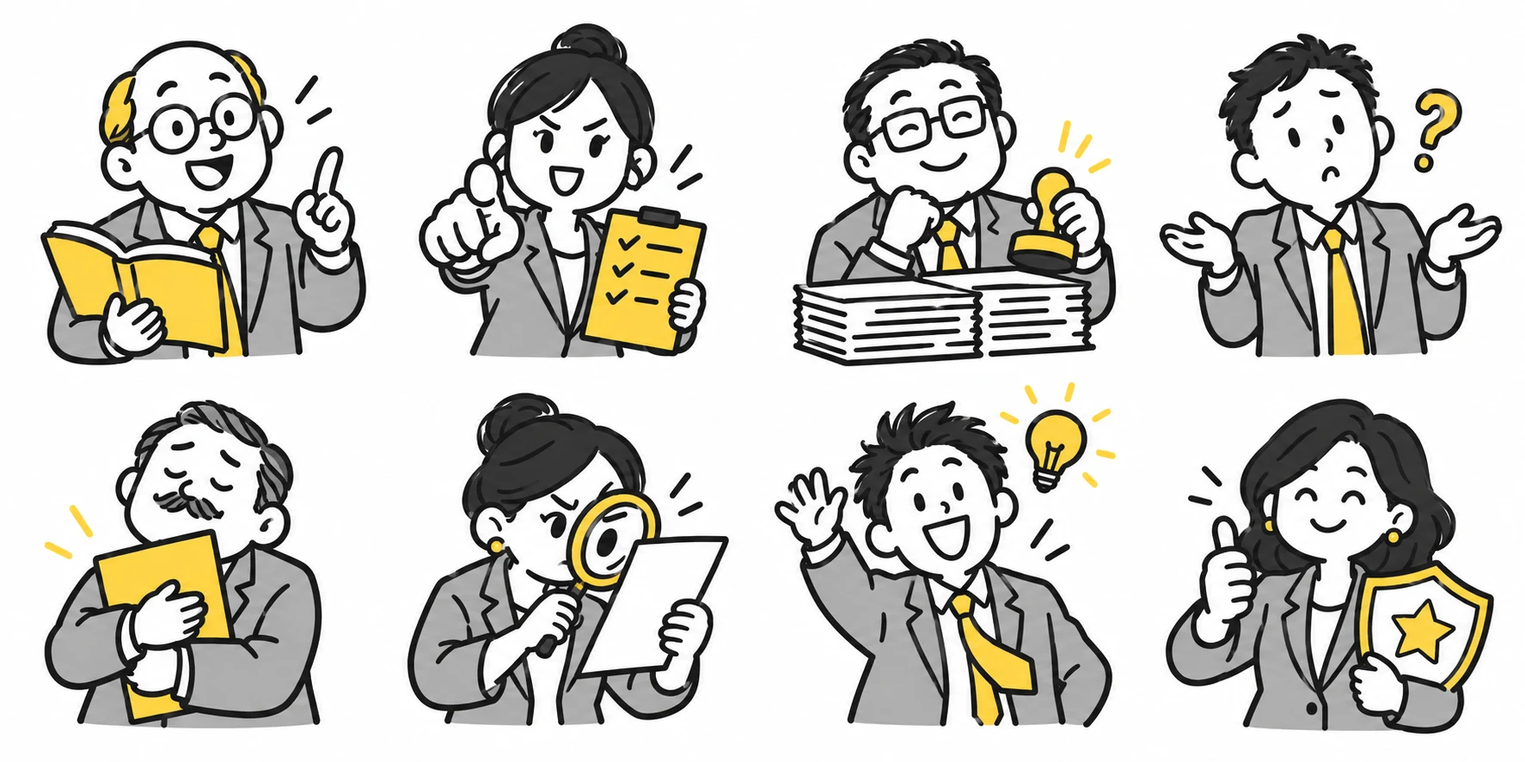
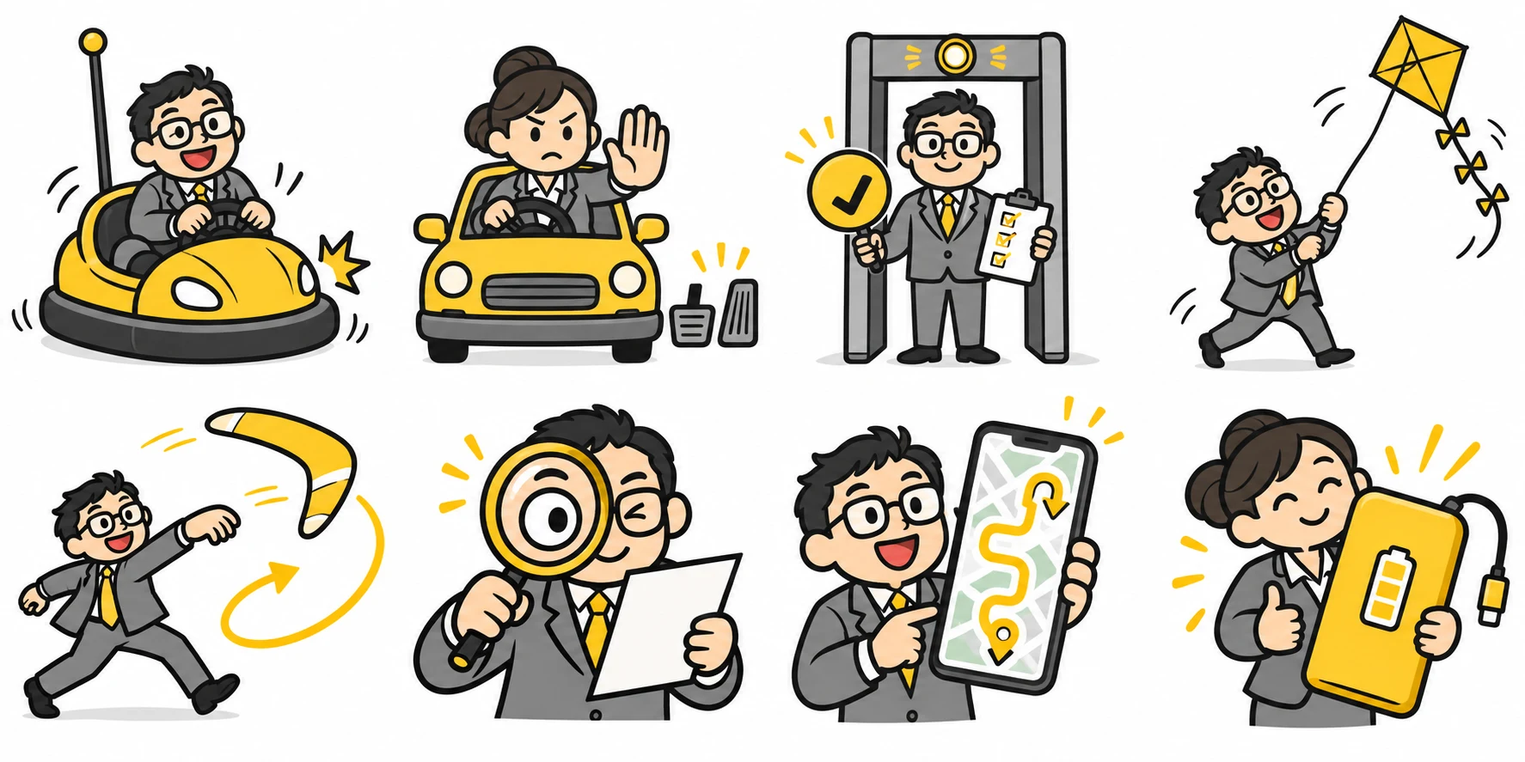
Rename leader profiles with everyday-object humor and matching illustrations

diff --git a/src/leader/main.js b/src/leader/main.js
@@ -1,5 +1,5 @@
 import './style.css';
-import { bossArt, paintBoss } from './illustrations.js';
+import { bossArt, paintBoss, mascotArt } from './illustrations.js';
 import {types,questions,evaluate} from './data.js';
 const app=document.querySelector('#app');
 let answers=[],step=0,view='home',selectedType=null;
@@ -14,15 +14,15 @@ const button=(label,action,cls='primary')=>`<button class="${cls}" data-action="
 function render(focus=false){
  const result=evaluate(answers);
  if (!document.querySelector('#main')) {
-   app.innerHTML=`<header><a href="#" data-action="home" class="brand"><span class="brand-mark">${bossArt("meeting")}</span> <span>领导使用说明书</span></a><span class="issue">打工人 · 观察手记</span></header><main id="main" tabindex="-1"></main><footer><span>每一种风格，都有相处的方法。</span><span>趣味行为观察 · 非 MBTI / 人格或管理能力评估</span></footer><div class="toast" role="status" aria-live="polite"></div>`;
+   app.innerHTML=`<header><a href="#" data-action="home" class="brand"><span class="brand-mark">${mascotArt()}</span> <span>领导使用说明书</span></a><span class="issue">打工人 · 观察手记</span></header><main id="main" tabindex="-1"></main><footer><span>每一种风格，都有相处的方法。</span><span>趣味行为观察 · 非 MBTI / 人格或管理能力评估</span></footer><div class="toast" role="status" aria-live="polite"></div>`;
  }
  const main = document.querySelector('#main');
  main.innerHTML = view==='home' ? home() : view==='quiz' ? quiz() : results(result);
  if(focus){main.focus({preventScroll:true});window.scrollTo({top:0,behavior:'instant'});}
 }
-function home(){return `<section class="hero doodle-home"><div class="hero-copy"><h1>快来认领<br>你的 <span class="highlight">Boss</span><em>！</em></h1><p class="home-subtitle">18 个职场瞬间，测出 TA 的隐藏画风。<br>顺便领走一份「相处攻略」。</p><div class="hero-actions">${button('看看我摊上了谁 ↗','start')}${savedAnswers.length?button('继续上次观察','resume','text-button'):''}</div><p class="home-meta">约 3 分钟 · 无需登录 · 答案仅存本标签页</p></div><div class="home-portrait" aria-hidden="true"><span class="sketch-orbit orbit-one">✦</span>${bossArt('meeting')}<span class="sketch-orbit orbit-two">?</span><span class="portrait-caption">Boss 已就位，等你来认领。</span></div></section>`;}
+function home(){return `<section class="hero doodle-home"><div class="hero-copy"><h1>快来认领<br>你的 <span class="highlight">Boss</span><em>！</em></h1><p class="home-subtitle">18 个职场瞬间，测出 TA 的隐藏画风。<br>顺便领走一份「相处攻略」。</p><div class="hero-actions">${button('看看我摊上了谁 ↗','start')}${savedAnswers.length?button('继续上次观察','resume','text-button'):''}</div><p class="home-meta">约 3 分钟 · 无需登录 · 答案仅存本标签页</p></div><div class="home-portrait" aria-hidden="true"><span class="sketch-orbit orbit-one">✦</span>${mascotArt()}<span class="sketch-orbit orbit-two">?</span><span class="portrait-caption">Boss 已就位，等你来认领。</span></div></section>`;}
 function quiz(){const q=questions[step];return `<section class="quiz"><div class="quiz-top"><span class="eyebrow">观察记录 / ${step<6?'日常沟通':step<12?'决策现场':'协作与反馈'}</span><span>${String(step+1).padStart(2,'0')} <span class="muted">/ 18</span></span></div><div class="progress" role="progressbar" aria-label="答题进度" aria-valuemin="0" aria-valuemax="18" aria-valuenow="${step+1}"><i style="width:${(step+1)/18*100}%"></i></div><p class="question-note">回想最近一个月，同一位直属领导的真实行为。</p><h1>${q.prompt}</h1><p class="muted">选择最常见的一种；没有遇到过也没关系。</p><div class="options">${[...q.options.map(o=>o.text),'没有遇到过 / 观察不足'].map((text,i)=>`<button class="option ${answers[step]===i?'selected':''}" data-answer="${i}" ${answers[step]===i?'aria-pressed="true"':'aria-pressed="false"'}><span>${i===4?'—':String.fromCharCode(65+i)}</span><b>${text}</b><span class="choice-indicator" aria-hidden="true">${answers[step]===i?"✓":""}</span></button>`).join('')}</div><div class="quiz-bottom">${step?button('← 上一题','back','text-button'):button('← 返回首页','home','text-button')}<button class="secondary next-question" data-action="next" ${Number.isInteger(answers[step])?'':'disabled'}>${step===17?'查看结果':'下一题 →'}</button></div><p class="swipe-hint" role="status">${Number.isInteger(answers[step])?'已选好，向左滑动进入'+(step===17?'结果':'下一题'):'点选答案后，向左滑动继续'} · 右滑返回</p></section>`;}
-function results(r){const t=selectedType?types.find(t=>t.id===selectedType):r.primary;return `<section class="results"><div class="result-heading"><p class="eyebrow">${selectedType?'风格图鉴 / 仅浏览':'YOUR LEADER MANUAL / 观察完成'}</p><h1>${t?'找到相处的频道。':'再多一点观察，少一点猜测。'}</h1><p class="muted">${selectedType?'浏览图鉴不会改变你的作答结果。':`已收集 ${r.known} 条有效观察。类型来自行为线索组合，并非人格诊断。`}</p></div>${t?`<article class="result-card"><div class="result-symbol">${bossArt(t.id)}</div><div><p class="eyebrow">${t.alias} · ${selectedType?'风格图鉴':`${r.primary.score} 条线索指向这一风格`}</p><h2>${t.name}</h2><blockquote>“${t.quote}”</blockquote>${!selectedType&&r.secondary?`<p class="mixed">混合倾向：${r.secondary.name} · ${r.secondary.score} 条线索</p>`:''}</div><span class="result-seal">观察<br>手记</span></article><div class="insight-grid"><article><p class="eyebrow">01 / 读懂偏好</p><h3>TA 可能在意什么</h3><p>${t.strength}</p></article><article><p class="eyebrow">02 / 找到卡点</p><h3>你们容易卡在哪里</h3><p>${t.friction}</p></article></div><section class="guide"><p class="eyebrow">03 / 下次试试看</p><h2>把理解，变成三个小动作。</h2>${t.tips.map((s,i)=>`<div class="tip"><span>0${i+1}</span><p>${s}</p></div>`).join('')}<div class="script"><span>一句可以直接说的话</span><p>“${t.script}”</p>${button('复制这句话 ↗','copy','text-button')}</div></section>${!selectedType?`<details><summary>看看支持这一结果的作答线索</summary>${answers.map((a,i)=>questions[i]?.options[a]?.scores.includes(t.id)?`<div class="evidence"><b>${questions[i].prompt}</b><p>${questions[i].options[a].text}</p></div>`:'').join('')}</details>`:''}`:`<div class="empty-result"><span>⌁</span><h2>目前还不足以判断主要风格</h2><p>至少需要 8 条有效观察，且同一种风格有 3 条线索支持。<br>可以回看答案，或在积累更多真实经历后再来观察。</p></div>`}<div class="result-actions">${t?button('下载风格分享卡 ↓','download'):''}${!selectedType?button('回看并修改答案','review','secondary'):button('返回我的观察','own','secondary')}${button('重新观察','restart','text-button')}${button('清除本次记录','clear','text-button')}</div><aside class="boundary"><b>有些问题，不应只靠你调整沟通。</b><p>如果遇到持续羞辱、威胁、歧视或报复，请考虑保留记录，并向可信赖的人或合适的支持渠道求助。沟通技巧不能保证解决这些问题。</p></aside><p class="disclaimer">本测试为原创职场趣味观察，分类及权重未经心理测量验证。不用于人员评价或职业决策，不对应 MBTI。结果只反映你所选择的场景。</p></section>`;}
+function results(r){const t=selectedType?types.find(t=>t.id===selectedType):r.primary;return `<section class="results"><div class="result-heading"><p class="eyebrow">${selectedType?'风格图鉴 / 仅浏览':'YOUR LEADER MANUAL / 观察完成'}</p><h1>${t?'找到相处的频道。':'再多一点观察，少一点猜测。'}</h1><p class="muted">${selectedType?'浏览图鉴不会改变你的作答结果。':`已收集 ${r.known} 条有效观察。类型来自行为线索组合，并非人格诊断。`}</p></div>${t?`<article class="result-card"><div class="result-symbol">${bossArt(t.id)}</div><div><p class="eyebrow">${t.alias} · ${selectedType?'风格图鉴':`${r.primary.score} 条线索指向这一风格`}</p><h2>${t.name}</h2><blockquote>“${t.quote}”</blockquote><p class="boss-hook">${t.hook}</p>${!selectedType&&r.secondary?`<p class="mixed">混合倾向：${r.secondary.name} · ${r.secondary.score} 条线索</p>`:''}</div><span class="result-seal">观察<br>手记</span></article><div class="insight-grid"><article><p class="eyebrow">01 / 读懂偏好</p><h3>这款 Boss 的运行逻辑</h3><p>${t.strength}</p></article><article><p class="eyebrow">02 / 找到卡点</p><h3>你们容易卡在哪里</h3><p>${t.friction}</p></article></div><section class="guide"><p class="eyebrow">03 / 下次试试看</p><h2>跟这款 Boss，怎么搭？</h2><p class="boss-mantra">${t.mantra}</p><p class="inner-thought">打工人内心弹幕：“${t.thought}”</p>${t.tips.map((s,i)=>`<div class="tip"><span>0${i+1}</span><p>${s}</p></div>`).join('')}<div class="script"><span>一句可以直接说的话</span><p>“${t.script}”</p>${button('复制这句话 ↗','copy','text-button')}</div></section>${!selectedType?`<details><summary>看看支持这一结果的作答线索</summary>${answers.map((a,i)=>questions[i]?.options[a]?.scores.includes(t.id)?`<div class="evidence"><b>${questions[i].prompt}</b><p>${questions[i].options[a].text}</p></div>`:'').join('')}</details>`:''}`:`<div class="empty-result"><span>⌁</span><h2>目前还不足以判断主要风格</h2><p>至少需要 8 条有效观察，且同一种风格有 3 条线索支持。<br>可以回看答案，或在积累更多真实经历后再来观察。</p></div>`}<div class="result-actions">${t?button('下载风格分享卡 ↓','download'):''}${!selectedType?button('回看并修改答案','review','secondary'):button('返回我的观察','own','secondary')}${button('重新观察','restart','text-button')}${button('清除本次记录','clear','text-button')}</div><aside class="boundary"><b>有些问题，不应只靠你调整沟通。</b><p>如果遇到持续羞辱、威胁、歧视或报复，请考虑保留记录，并向可信赖的人或合适的支持渠道求助。沟通技巧不能保证解决这些问题。</p></aside><p class="disclaimer">本测试为原创职场趣味观察，分类及权重未经心理测量验证。不用于人员评价或职业决策，不对应 MBTI。结果只反映你所选择的场景。</p></section>`;}
 function toast(s){document.querySelector('.toast').textContent=s;setTimeout(()=>{const el=document.querySelector('.toast');if(el)el.textContent='';},2500);}
 // Lock navigation until both animation phases finish; selecting an answer never changes the question.
 async function changeQuestion(change, direction = 1) {
@@ -90,6 +90,6 @@ app.addEventListener('touchend',event=>{
  }
 },{passive:false});
 app.addEventListener('touchcancel',()=>{gesture=null;},{passive:true});
-async function download(){const t=types.find(t=>t.id===selectedType)||evaluate(answers).primary;if(!t)return;const canvas=document.createElement('canvas');canvas.width=1080;canvas.height=1440;const c=canvas.getContext('2d');c.fillStyle='#faf9f5';c.fillRect(0,0,1080,1440);c.strokeStyle='#2d2c29';c.lineWidth=4;c.strokeRect(48,48,984,1344);c.fillStyle='#726d63';c.font='26px sans-serif';c.fillText('领导使用说明书 / BOSS OBSERVATION',100,125);try {await paintBoss(c,t.id,290,175,500,500);} catch {toast('插画加载失败，请重试');return;}c.fillStyle='#e9d77c';c.fillRect(140,724,800,34);c.fillStyle='#2d2c29';c.font='bold 76px sans-serif';c.textAlign='center';c.fillText(t.name,540,750);c.font='34px sans-serif';c.fillText(`“${t.quote}”`,540,830);c.textAlign='left';c.fillStyle='#817548';c.font='27px sans-serif';c.fillText('相处攻略 · 第一条',110,960);c.fillStyle='#2d2c29';c.font='36px sans-serif';wrap(c,t.tips[0],110,1035,840,57);c.font='24px sans-serif';c.fillStyle='#89867d';c.fillText('职场趣味观察 · 非人格或管理能力评估',110,1250);c.fillText('不含作答记录与个人信息',110,1300);canvas.toBlob(blob=>{if(!blob){toast('图片生成失败，请重试');return;}const u=URL.createObjectURL(blob);const a=document.createElement('a');a.href=u;a.download=`领导使用说明书-${t.name}.png`;a.click();setTimeout(()=>URL.revokeObjectURL(u),1000);toast('分享卡已生成');},'image/png');}
+async function download(){const t=types.find(t=>t.id===selectedType)||evaluate(answers).primary;if(!t)return;const canvas=document.createElement('canvas');canvas.width=1080;canvas.height=1440;const c=canvas.getContext('2d');c.fillStyle='#faf9f5';c.fillRect(0,0,1080,1440);c.strokeStyle='#2d2c29';c.lineWidth=4;c.strokeRect(48,48,984,1344);c.fillStyle='#726d63';c.font='26px sans-serif';c.fillText('领导使用说明书 / BOSS OBSERVATION',100,125);try {await paintBoss(c,t.id,290,175,500,500);} catch {toast('插画加载失败，请重试');return;}c.fillStyle='#e9d77c';c.fillRect(140,724,800,34);c.fillStyle='#2d2c29';c.font='bold 76px sans-serif';c.textAlign='center';c.fillText(t.name,540,750);c.font='34px sans-serif';c.fillText(`“${t.quote}”`,540,830);c.textAlign='left';c.fillStyle='#817548';c.font='27px sans-serif';c.fillText('相处攻略 · 第一条',110,960);c.fillStyle='#2d2c29';c.font='36px sans-serif';wrap(c,t.mantra,110,1035,840,57);c.font='24px sans-serif';c.fillStyle='#89867d';c.fillText('职场趣味观察 · 非人格或管理能力评估',110,1250);c.fillText('不含作答记录与个人信息',110,1300);canvas.toBlob(blob=>{if(!blob){toast('图片生成失败，请重试');return;}const u=URL.createObjectURL(blob);const a=document.createElement('a');a.href=u;a.download=`领导使用说明书-${t.name}.png`;a.click();setTimeout(()=>URL.revokeObjectURL(u),1000);toast('分享卡已生成');},'image/png');}
 function wrap(c,s,x,y,max,line){let row='';for(const ch of s){if(c.measureText(row+ch).width>max){c.fillText(row,x,y);row='';y+=line;}row+=ch;}c.fillText(row,x,y);}
 render();

diff --git a/src/leader/data.js b/src/leader/data.js
@@ -1,13 +1,24 @@
 export const types = [
-['meeting','会议召唤师','碰碰车型','这件事，我们再碰一下。','◉','通过讨论汇集信息、建立共识；面对面沟通是熟悉的工作方式。','会议可能代替决策，讨论结束却缺少下一步。',['会前发出议题与需要拍板的问题','会末确认负责人、交付时间和结论','对简单事项提出文字同步的替代方案'],'这次我们需要确认哪两个决定？我先整理选项，争取在二十分钟内定下来。'],
-['driver','闭环推动者','主动型','你要主动推动啊，怎么没提前问我？','↗','关注结果、速度和责任归属，期待成员带着方案行动。','对主动性的期待与决策权限可能没有同时说清楚。',['带着建议、依据和下一步来沟通','约定自主决定与需要审批的范围','按里程碑同步风险与进展'],'我建议按 A 方案推进。这部分我自行执行，预算和方向变化先请您确认，可以吗？'],
-['process','流程巡礼者','哲学家型','财务、法务，那边都确认了吗？','⌘','重视风险、合规与跨部门共识，倾向于先确认再行动。','相关方不断增加，确认流程容易失去终点。',['列出必要审批与相关方清单','请领导确认最终决策人与截止时间','把已确认事项和待决问题放在同一份摘要中'],'目前财务已确认，法务周三反馈。除此之外，还需要谁审批？我们能否周四定稿？'],
-['delegate','薛定谔的授权','放手型','你自己决定。这个谁同意的？','☁','日常倾向让成员独立处理，通常较少介入执行。','授权标准模糊时，事后介入会让员工难以判断边界。',['区分自行决定、同步执行与批准后执行','关键决定用简短文字确认','必要审批未完成时说明进度影响'],'为减少反复确认，日常执行我自主处理，预算、对外承诺和方向变更先请您确认，还有哪些例外？'],
-['original','第一版守护者','初恋型','改来改去，还是第一版有感觉。','♡','对最初方向保留鲜明印象，通过比较逐步明确偏好。','反馈停留在感觉，修改标准难以收敛。',['每轮只确认最重要的两个修改目标','保留版本摘要，说明各版取舍','用并排对比确认最终验收标准'],'回到第一版没问题。您最想保留的是结构、视觉还是表达？我们先定下这轮的标准。'],
-['detail','细节显微镜','颗粒度型','颗粒度还不够，再往下拆一层。','⊕','重视质量与精确性，愿意深入核实细节。','局部细节可能挤占整体目标与交付时间。',['先确认交付标准与最重要的细节','用样稿及数据口径提前校准','区分本轮必改与后续优化'],'我先拿这一页作为样稿确认标准。本轮优先保证数据和结构，其他细节排到下一轮，您看可以吗？'],
-['idea','方向刷新器','灵感型','之前先放一放，我有个新想法。','✳','善于发现机会、尝试新方向，能给团队带来创意。','频繁切换方向，旧任务和期限却可能仍在累积。',['记录方向变化及其影响','新增任务时请求明确替换项','用小样验证想法，再投入完整制作'],'新方向可以先做一个小样验证。如果今天优先做它，原任务需要顺延到周五，您更希望优先哪个？'],
-['support','清障队长','护航型','卡在哪里？需要我协调谁？','⚑','通过明确优先级与协调资源，帮助团队自主完成目标。','支持也需要及时、具体的风险信息，临近截止才说很难补救。',['提前暴露风险，附上可选方案','明确需要领导提供的具体支持','解决后同步结果与可复用经验'],'目前卡在跨部门资源上。我尝试了 A 和 B，需要您协助确认一个负责人，预计能追回两天进度。']
+['meeting','碰碰车','开会型','这件事，我们再碰一下。','◉','通过讨论汇集信息、建立共识；面对面沟通是熟悉的工作方式。','会议可能代替决策，讨论结束却缺少下一步。',['会前发出议题与需要拍板的问题','会末确认负责人、交付时间和结论','对简单事项提出文字同步的替代方案'],'这次我们需要确认哪两个决定？我先整理选项，争取在二十分钟内定下来。'],
+['driver','自动挡教练','主动型','你要主动推进啊！……谁让你直接往前开的？','↗','关注结果、速度和责任归属，期待成员带着方案行动。','对主动性的期待与决策权限可能没有同时说清楚。',['带着建议、依据和下一步来沟通','约定自主决定与需要审批的范围','按里程碑同步风险与进展'],'我建议按 A 方案推进。这部分我自行执行，预算和方向变化先请您确认，可以吗？'],
+['process','人形安检门','流程型','财务过了吗？法务过了吗？我这关过了吗？','⌘','重视风险、合规与跨部门共识，倾向于先确认再行动。','相关方不断增加，确认流程容易失去终点。',['列出必要审批与相关方清单','请领导确认最终决策人与截止时间','把已确认事项和待决问题放在同一份摘要中'],'目前财务已确认，法务周三反馈。除此之外，还需要谁审批？我们能否周四定稿？'],
+['delegate','遥控风筝','放手型','你自由发挥。等等，谁让你飞那么远的？','☁','日常倾向让成员独立处理，通常较少介入执行。','授权标准模糊时，事后介入会让员工难以判断边界。',['区分自行决定、同步执行与批准后执行','关键决定用简短文字确认','必要审批未完成时说明进度影响'],'为减少反复确认，日常执行我自主处理，预算、对外承诺和方向变更先请您确认，还有哪些例外？'],
+['original','回旋镖','回归型','改来改去，还是第一版有感觉。','♡','对最初方向保留鲜明印象，通过比较逐步明确偏好。','反馈停留在感觉，修改标准难以收敛。',['每轮只确认最重要的两个修改目标','保留版本摘要，说明各版取舍','用并排对比确认最终验收标准'],'回到第一版没问题。您最想保留的是结构、视觉还是表达？我们先定下这轮的标准。'],
+['detail','高清放大镜','颗粒度型','颗粒度还不够，再往下拆一层。','⊕','重视质量与精确性，愿意深入核实细节。','局部细节可能挤占整体目标与交付时间。',['先确认交付标准与最重要的细节','用样稿及数据口径提前校准','区分本轮必改与后续优化'],'我先拿这一页作为样稿确认标准。本轮优先保证数据和结构，其他细节排到下一轮，您看可以吗？'],
+['idea','职场导航','灵感型','前方掉头，正在重新规划路线。','✳','善于发现机会、尝试新方向，能给团队带来创意。','频繁切换方向，旧任务和期限却可能仍在累积。',['记录方向变化及其影响','新增任务时请求明确替换项','用小样验证想法，再投入完整制作'],'新方向可以先做一个小样验证。如果今天优先做它，原任务需要顺延到周五，您更希望优先哪个？'],
+['support','人间充电宝','护航型','你负责往前走，没电了我来充。','⚑','通过明确优先级与协调资源，帮助团队自主完成目标。','支持也需要及时、具体的风险信息，临近截止才说很难补救。',['提前暴露风险，附上可选方案','明确需要领导提供的具体支持','解决后同步结果与可复用经验'],'目前卡在跨部门资源上。我尝试了 A 和 B，需要您协助确认一个负责人，预计能追回两天进度。']
 ].map(([id,name,alias,quote,icon,strength,friction,tips,script])=>({id,name,alias,quote,icon,strength,friction,tips,script}));
+const fieldNotes = {
+ meeting: {hook:'大事小事都要碰，碰完这场还有下一场。',thought:'最后，为了减少开会，我们又开了个会。',mantra:'带着议题上车，拿到结论下车。'},
+ driver: {hook:'要求你自动起步、自动加速、自动到达，唯独方向盘不能自己打。',thought:'让我主动的是你，踩我刹车的也是你。',mantra:'先问清哪段能自己开，再挂挡出发。'},
+ process: {hook:'方案可以不成熟，手续必须全熟。一个项目，过遍所有关卡。',thought:'事情还没落地，我已经通关了整栋办公楼。',mantra:'先列通关清单，再找最终放行的人。'},
+ delegate: {hook:'看起来让你自由飞，线一直攥在 TA 手里。',thought:'说好天空任我飞，怎么刚起飞就收线？',mantra:'先问清线有多长，再决定飞多远。'},
+ original: {hook:'意见飞了一大圈，精准扎回第一版。',thought:'七版青春，换来一句：还是最初的你好。',mantra:'版本留好底，对照标准再返航。'},
+ detail: {hook:'你的方案还没被看懂，第三页的逗号已经被看穿了。',thought:'我交的是方案，TA 看的是像素点。',mantra:'先拿样稿对标准，再把细节做到位。'},
+ idea: {hook:'目的地还没到，路线已经更新了八遍。',thought:'每天都在重新规划，什么时候才能抵达？',mantra:'每次重新导航，记得重算交付时间。'},
+ support: {hook:'别人开会耗你的电，TA 出手给你续上。',thought:'原来上班也能遇到自带快充的人。',mantra:'电量不足早汇报，需要什么说具体。'}
+};
+for (const type of types) Object.assign(type, fieldNotes[type.id]);
 const q=(prompt,options)=>({prompt,options:options.map(([text,...scores])=>({text,scores}))});
 export const questions=[
 q('一个不影响全局的小问题出现了，TA通常会？', [['先拉相关同事开个会','meeting'],['让我带着处理方案和完成时间来','driver'],['先确认涉及哪些部门和审批','process'],['帮我判断是否需要额外资源','support']]),

diff --git a/tests/leader.spec.js b/tests/leader.spec.js
@@ -4,9 +4,9 @@ test('complete observation, download PNG, review, restore and clear private answ
  await page.getByRole('button',{name:'看看我摊上了谁'}).click();
  for(let i=0;i<18;i++){await page.locator('[data-answer="0"]').click();await page.locator('[data-action="next"]').click();}
  await expect(page.getByRole('heading',{name:'找到相处的频道。'})).toBeVisible();
- await expect(page.locator('.result-card h2')).toHaveText('会议召唤师');
+ await expect(page.locator('.result-card h2')).toHaveText('碰碰车');
  const download=page.waitForEvent('download');await page.getByRole('button',{name:'下载风格分享卡'}).click();
- const d=await download;expect(d.suggestedFilename()).toContain('会议召唤师');
+ const d=await download;expect(d.suggestedFilename()).toContain('碰碰车');
  const {readFile}=await import('node:fs/promises');const bytes=await readFile(await d.path());
  expect(bytes.readUInt32BE(16)).toBe(1080);expect(bytes.readUInt32BE(20)).toBe(1440);
  await page.getByRole('button',{name:'回看并修改答案'}).click();
@@ -41,6 +41,8 @@ test('eight leader styles reveal distinct illustrations and export illustrated c
   await page.evaluate(a=>sessionStorage.setItem('leader-manual-v1',JSON.stringify(a)),answers);
   await page.reload();await page.locator('[data-action="resume"]').click();
   await expect(page.locator('.result-card h2')).toHaveText(type.name);
+  await expect(page.locator('.boss-hook')).toHaveText(type.hook);
+  await expect(page.locator('.boss-mantra')).toHaveText(type.mantra);
   await expect(page.locator(`.result-card [data-boss-art="${type.id}"]`)).toBeVisible();
   const pending=page.waitForEvent('download');await page.locator('[data-action="download"]').click();
   const download=await pending;const bytes=await readFile(await download.path());

diff --git a/src/leader/style.css b/src/leader/style.css
@@ -10,3 +10,4 @@
 .option .arrow{font-family:Arial,sans-serif;font-variant-emoji:text}
 
 .quiz{touch-action:pan-y}.choice-indicator{margin-left:auto;flex-shrink:0;width:22px;height:22px;border:1.5px solid #d4cbb8;border-radius:50%;display:grid;place-items:center;color:transparent;font-size:13px}.option.selected .choice-indicator{background:#b09a49;border-color:#b09a49;color:white}.swipe-hint{text-align:center;font-size:11px;color:#9b917c;margin:22px 0 0}.next-question{padding:10px 18px}.next-question:disabled{opacity:.4;cursor:default}.option:not(.selected){background:#fffefa;border-color:#e1dbce}
+.boss-hook{font-size:13px;line-height:1.9;color:#97856a;margin:16px 0 0;max-width:430px}.boss-mantra{font-size:18px;color:#6f603a;margin:0 0 15px}.inner-thought{font-size:12px;color:#9b8e76;line-height:1.8;margin-bottom:22px}@media(max-width:800px){.boss-hook{font-size:12px}.boss-mantra{font-size:16px}.result-card h2{font-size:29px}}

diff --git a/src/leader/illustrations.js b/src/leader/illustrations.js
@@ -1,5 +1,10 @@
 import sheet from './boss-sheet.webp?inline';
+import mascotSheet from './mascot-sheet.webp?inline';
 import {types} from './data.js';
+
+export function mascotArt() {
+  return `<svg class="boss-art" viewBox="0 0 100 100" aria-hidden="true" xmlns="http://www.w3.org/2000/svg"><image href="${mascotSheet}" width="400" height="200" preserveAspectRatio="none"/></svg>`;
+}
 
 // One local, self-contained sheet; consistent crops are also used in the PNG export.
 export function bossArt(id) {

diff --git a/README.md b/README.md
@@ -105,3 +105,7 @@ PLAYWRIGHT_CHROMIUM_EXECUTABLE_PATH=/usr/bin/chromium npm run test:e2e
 ### 手机滑动答题
 
 点击选项仅保存当前选择；向左滑动或点击「下一题」继续，向右滑动或点击「上一题」返回。未答题不能前进，最后一题确认后查看结果。新作答清空答案；历史记录只在主动选择「继续上次观察」时恢复。选中态使用实际作答的勾选圆点，不使用悬停背景模拟选中。横向手势需超过 60px 且明显大于纵向位移，保留正常纵向滚动；切题使用方向位移和淡入淡出，支持减少动态效果偏好。
+
+### 生活物件版领导画像
+
+八类展示名更新为：碰碰车、自动挡教练、人形安检门、遥控风筝、回旋镖、高清放大镜、职场导航、人间充电宝。类型ID、题目和评分维持一致。每类新增运行特点、内心弹幕与相处口诀，结果插画及PNG使用新的生活物件主题；首页和Logo仍使用原手册人物。`mascot-sheet.webp` 保留首页素材，`boss-sheet.webp` 提供八类结果插画。
